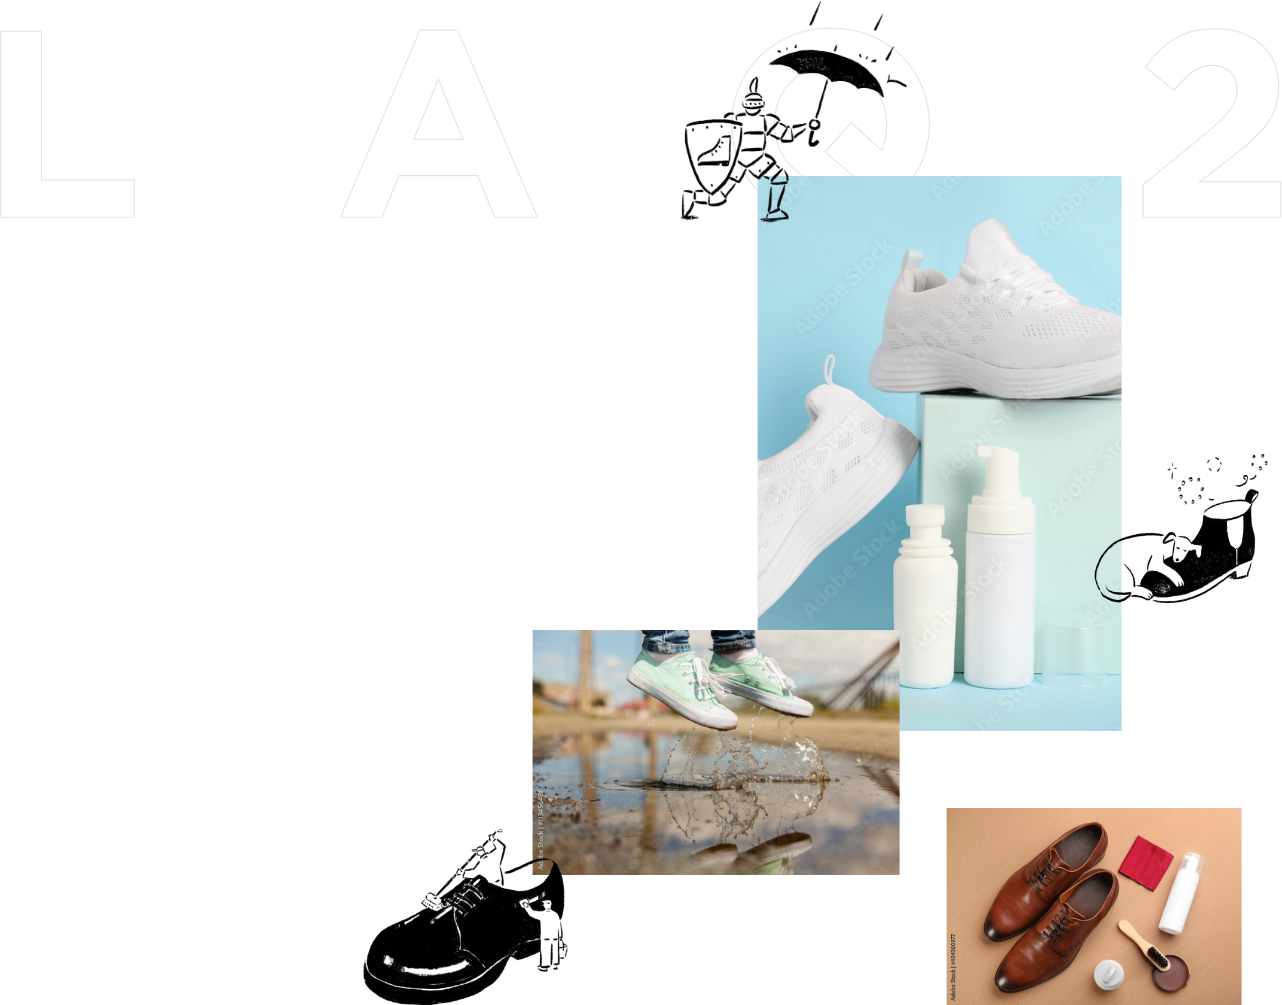
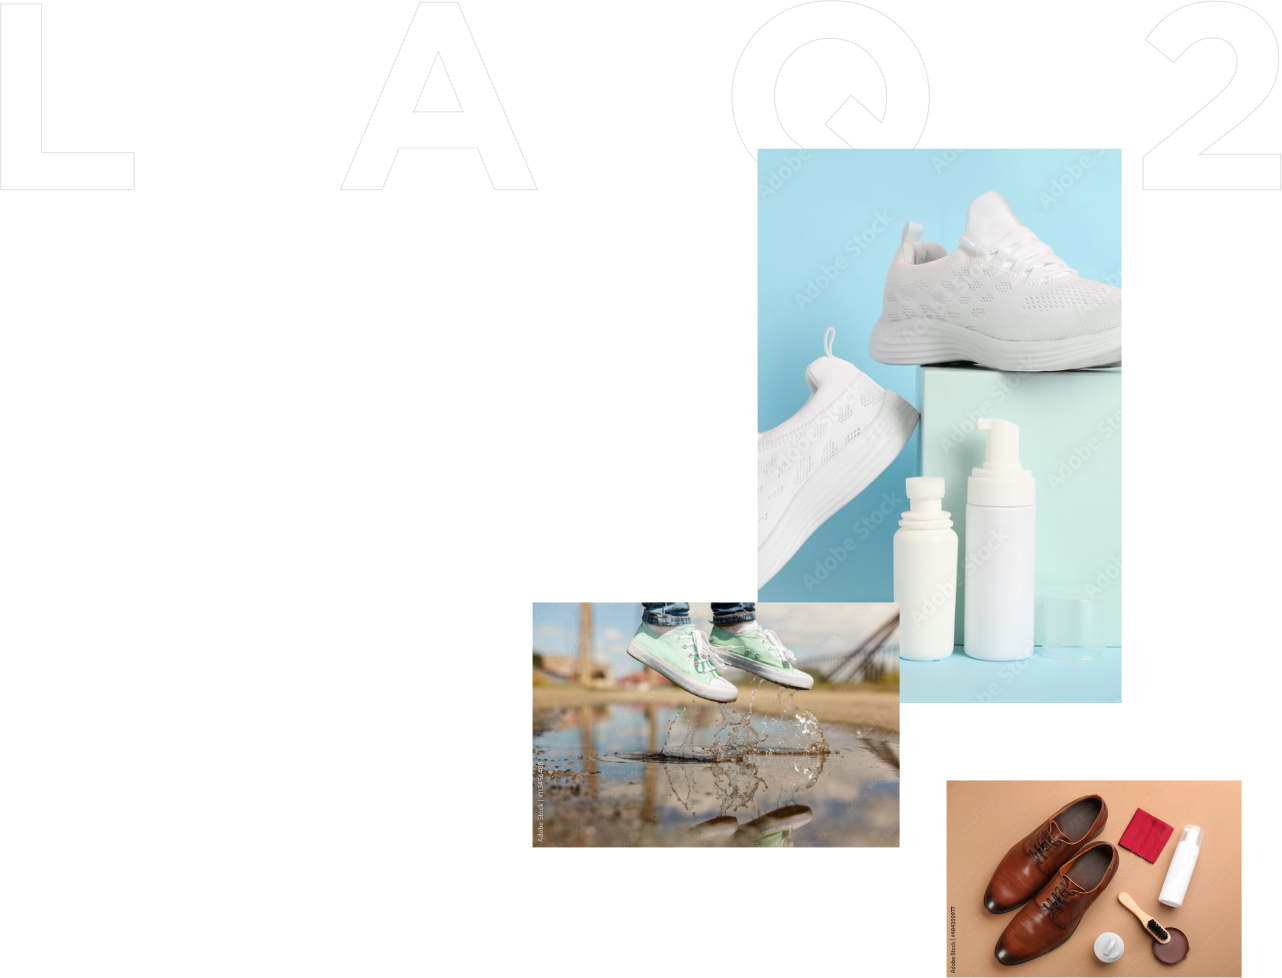
aboutページ修正テストアップ完了

diff --git a/laq2/about/css/about.css b/laq2/about/css/about.css
@@ -11,7 +11,7 @@
   display: flex;
   position: relative;
   justify-content: center;
-  margin-bottom: 280px;
+  margin-bottom: 290px;
 }
 
 .about .about-texts {
@@ -34,13 +34,43 @@
 }
 
 .about .texts-area .img-area {
-  margin-top: 483px;
-  padding: 10px;
+  margin-top: 493px;
+  padding: 0 10px;
+  position: relative;
+  z-index: -1;
 }
 
+.about .texts-area .img-area .img-1 {
+  position: absolute;
+  max-width: 226px;
+  width: 18%;
+  top: -3%;
+  right: 29.5%;
+}
+
+.about .texts-area .img-area .img-2 {
+  position: absolute;
+  max-width: 173px;
+  width: 14%;
+  top: 43%;
+  right: 2%;
+}
+
+.about .texts-area .img-area .img-3 {
+  position: absolute;
+  max-width: 204px;
+  width: 16%;
+  bottom: 0;
+  left: 28.5%;
+}
 .about .title-area {
   text-align: center;
   margin-bottom: 200px;
+}
+
+.about .title-area img {
+  max-width: 185px;
+  max-height: 264px;
 }
 
 .about .text-padding {
@@ -167,7 +197,7 @@
 
   .about .texts-area {
     display: block;
-    margin-bottom: 120px;
+    margin-bottom: 130px;
   }
 
   .about .texts-area .container {
@@ -176,6 +206,33 @@
 
   .about .texts-area .img-area {
     margin-top: 30px;
+    display: inline-block;
+    left: 50%;
+    transform: translateX(-50%);
+    -webkit-transform: translateX(-50%);
+    -ms-transform: translateX(-50%);
+  }
+
+  .about .texts-area .img-area .img-1 {
+    max-width: 103px;
+    width: 28%;
+    top: 0;
+    left: 72px;
+    right: 0;
+  }
+  
+  .about .texts-area .img-area .img-2 {
+    max-width: 79px;
+    width: 22%;
+    top: 34.5%;
+    right: 5%;
+  }
+  
+  .about .texts-area .img-area .img-3 {
+    max-width: 93px;
+    width: 26%;
+    bottom: 23%;
+    left: -2px;
   }
 
   .about .block-area {

diff --git a/laq2/about/index.html b/laq2/about/index.html
@@ -121,12 +121,15 @@
 </div>
 <div class="img-area">
   <img src="/about/img/img_bg01_pc.png" alt="LAQ2" class="pc-only">
-  <div class="text-center sp-only"><img src="/about/img/img_bg01_sp.png" alt="LAQ2"></div>
+  <img src="/about/img/img_bg01_sp.png" alt="LAQ2" class="sp-only">
+  <img src="/shared/img/index/concept/anime_water-stain.gif" class="img-1" alt="">
+  <img src="/shared/img/index/concept/anime_shoe-care.gif" class="img-2" alt="">
+  <img src="/shared/img/index/concept/anime_all-in.gif" class="img-3" alt="">
 </div>
 </div>
 
 <div class="title-area">
-<img src="/about/img/img_title.png" alt="素早く、手間なく、スマートに変え">
+<img src="/about/img/img_title.svg" alt="素早く、手間なく、スマートに変え">
 </div>
 
 <div class="block-area about-texts f-tenmin container">
